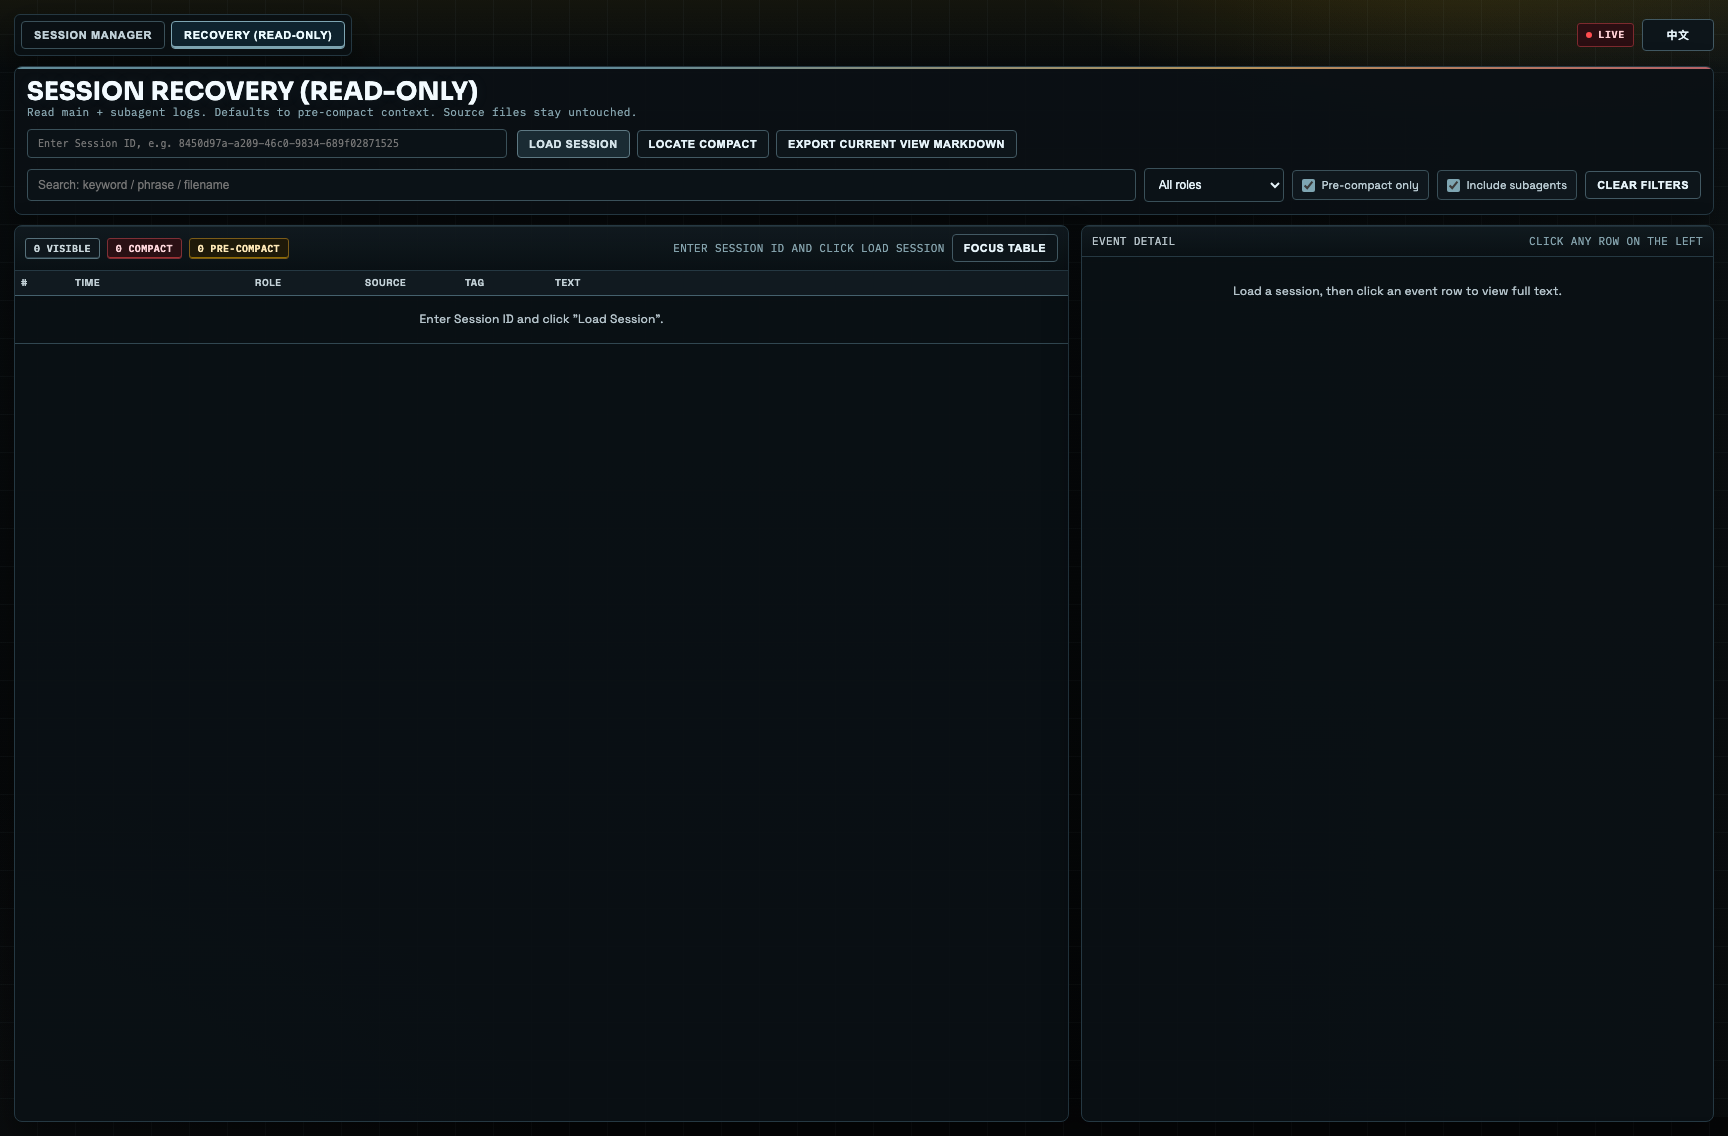
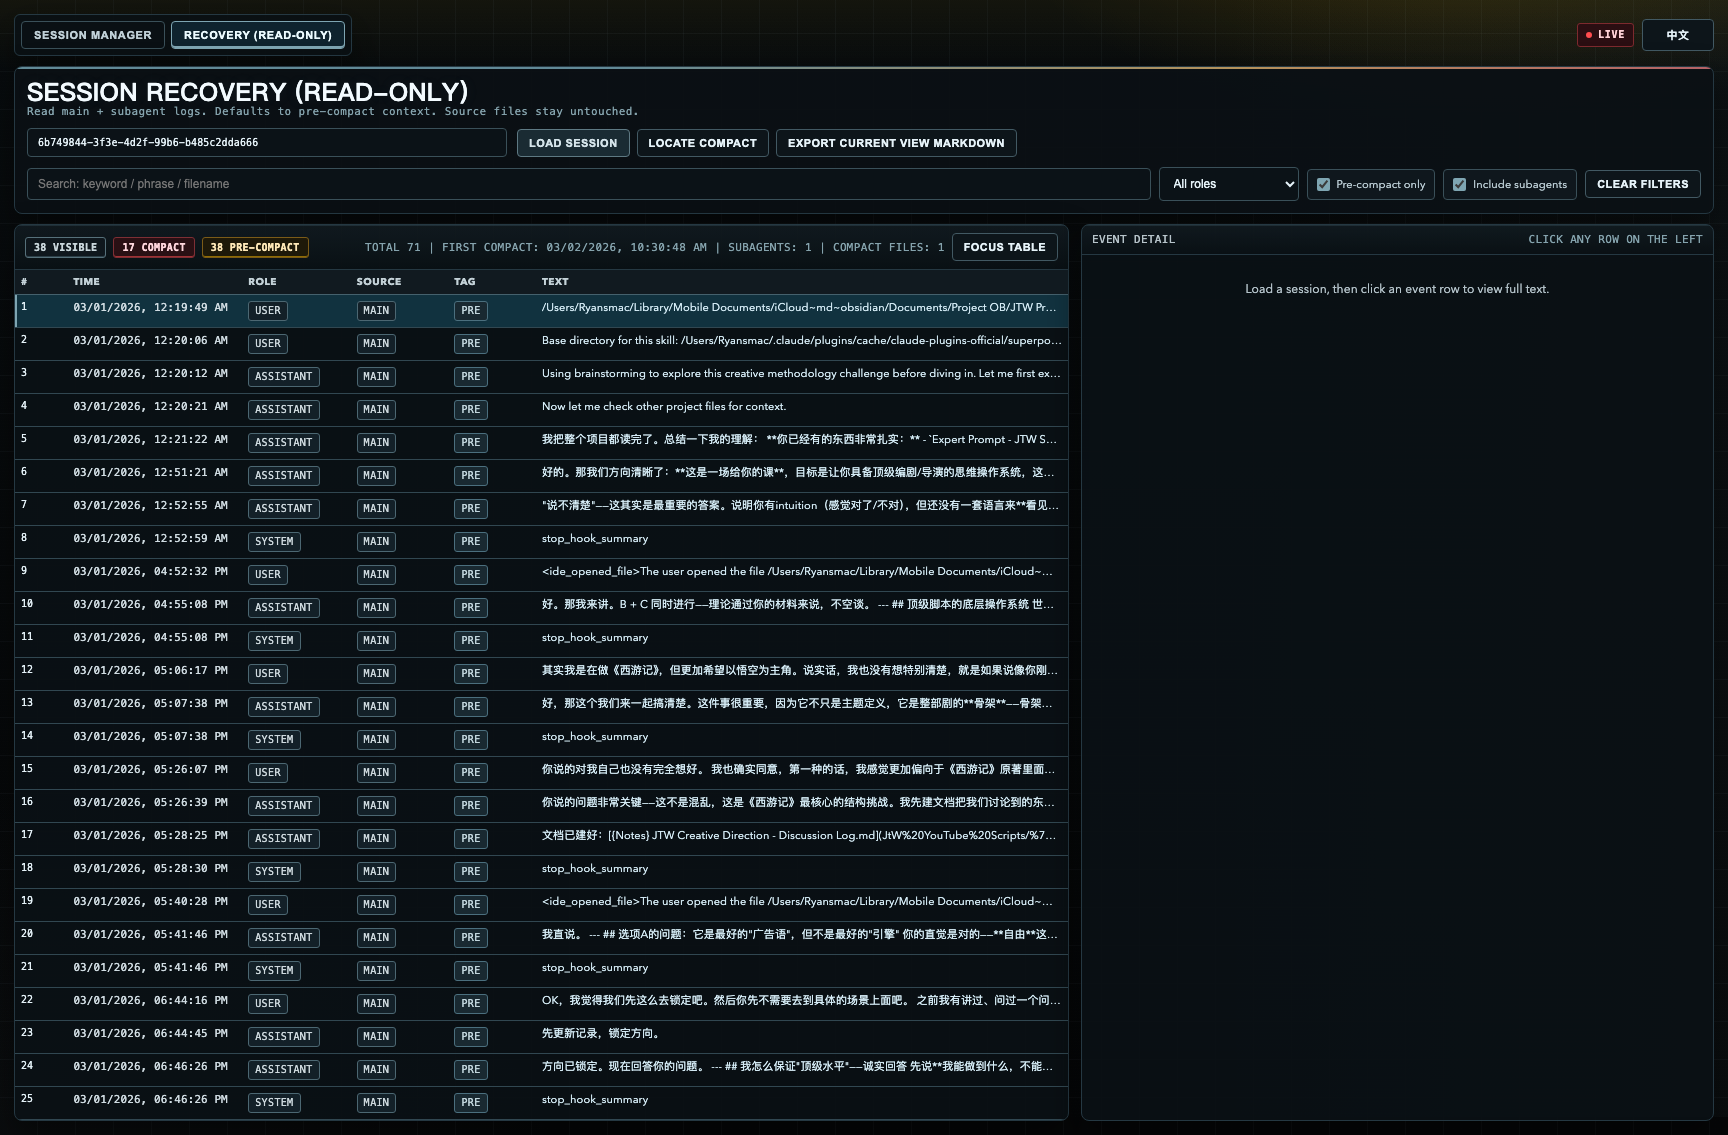
feat: improve launchers, add zh-cn README, and refresh demo screenshots

Changed region(s): [[0.0, 0.0617, 1.0, 0.9868], [0.7188, 0.2467, 0.9062, 0.2775]]

diff --git a/index.html b/index.html
@@ -1625,6 +1625,37 @@
       return candidate === 'recovery' ? 'recovery' : 'manager';
     }
 
+    function isDemoModeEnabled() {
+      const raw = String(new URLSearchParams(window.location.search).get('demo') || '').trim().toLowerCase();
+      return raw === '1' || raw === 'true' || raw === 'yes';
+    }
+
+    async function applyDemoStateIfNeeded() {
+      if (!isDemoModeEnabled()) return;
+
+      const m = state.manager;
+      const first = m.filtered[0] || m.sessions[0];
+      if (!first || !first.key) return;
+
+      m.selected.add(first.key);
+      await activateManagerSessionByKey(first.key);
+      renderManagerTable();
+
+      if (state.view !== 'recovery') return;
+      if (!m.activeDetail?.sessionId || !SESSION_ID_RE.test(m.activeDetail.sessionId)) return;
+
+      state.recovery.sessionId = m.activeDetail.sessionId;
+      els.recoverySessionId.value = m.activeDetail.sessionId;
+      await loadRecoverySession();
+
+      const firstEvent = state.recovery.filtered[0] || state.recovery.events[0];
+      if (firstEvent) {
+        state.recovery.activeId = firstEvent.id;
+        renderRecoveryTable();
+        renderRecoveryPreview(findRecoveryEventById(firstEvent.id));
+      }
+    }
+
     function renderRootPath() {
       const root = state.manager.rootPath || t('common.unknown');
       els.rootPath.textContent = t('manager.rootPath', { root });
@@ -2568,6 +2599,7 @@
 
       try {
         await reloadManagerAndRender();
+        await applyDemoStateIfNeeded();
       } catch (error) {
         els.sessionBody.innerHTML = `<tr><td colspan="9" class="empty">${esc(error.message)}</td></tr>`;
       }

diff --git a/README.zh-CN.md b/README.zh-CN.md
@@ -1,0 +1,119 @@
+# SessionDeck
+
+[English](./README.md) | 简体中文
+
+SessionDeck 是一个本地 Web 工具，用来管理 Claude Code 本地会话，强调可视化浏览 + 安全治理 + 不改源数据。
+
+## 功能
+
+### Session Manager（会话管理）
+
+- 列表展示：`project`、`summary`、`first prompt`、`last prompt`、`message count`、`modified time`
+- 关键词过滤与批量选择
+- 安全删除：移动到系统 Trash（不是硬删）
+
+### Recovery（只读恢复）
+
+- 按 `sessionId` 加载主会话 + subagents
+- 支持“只看压缩前”上下文
+- 支持定位 compact 点
+- 支持导出当前视图 Markdown
+
+### 进阶能力
+
+- 重建官方 `sessions-index.json`（不改 session 内容）
+- 跨 session 全文搜索（可包含 subagents）
+- 会话命名/标签（sidecar，不改原 session）
+- 批量导出选中会话为 Markdown
+
+### 界面
+
+- 默认英文，支持 EN/中文切换
+- War Room 风格主题
+
+## 数据安全边界
+
+- Recovery 为只读。
+- 命名与标签写入 sidecar 元数据，不改源会话文件。
+- 只有删除操作会触碰会话文件，且走系统 Trash。
+
+## 架构
+
+- 前端：单页 `index.html`
+- 后端：Node.js `server.mjs`
+- 启动脚本：
+- macOS：`Session Deck.command`、`Stop Session Deck.command`
+- Windows：`Session Deck.bat`、`Stop Session Deck.bat`
+- 跨平台终端：`run.sh`
+
+## 环境要求
+
+- Node.js 18+
+- Claude Code 会话目录（默认 `~/.claude/projects`）
+
+## 快速启动
+
+### 方式 A：双击（macOS）
+
+- `Session Deck.command`：启动并自动打开浏览器
+- `Stop Session Deck.command`：停止服务
+
+### 方式 B：双击（Windows）
+
+- `Session Deck.bat`：启动并自动打开浏览器
+- `Stop Session Deck.bat`：停止服务
+
+### 方式 C：终端
+
+```bash
+cd "/path/to/SessionDeck"
+./run.sh
+```
+
+默认地址：<http://127.0.0.1:47831>
+
+## Spotlight 启动（macOS）
+
+安装可被 Spotlight 搜索到的启动器：
+
+```bash
+./scripts/install-macos-launcher.sh
+```
+
+脚本会创建：`~/Applications/Session Deck.app`
+
+## 截图
+
+### Session Manager
+
+![Session Manager](docs/images/session-manager.png)
+
+### Recovery（只读）
+
+![Recovery View](docs/images/recovery-view.png)
+
+## 配置
+
+- `PORT`（默认 `47831`）
+- `CLAUDE_PROJECTS`（默认 `~/.claude/projects`）
+
+```bash
+PORT=47840 CLAUDE_PROJECTS="$HOME/.claude/projects" ./run.sh
+```
+
+## 项目状态
+
+- 当前目标版本：`v0.1.0`
+- 发布记录见 [`CHANGELOG.md`](./CHANGELOG.md)
+
+## 贡献
+
+请先阅读 [`CONTRIBUTING.md`](./CONTRIBUTING.md)
+
+## 安全
+
+漏洞报告流程见 [`SECURITY.md`](./SECURITY.md)
+
+## 许可证
+
+MIT License，见 [`LICENSE`](./LICENSE)

diff --git a/CHANGELOG.md b/CHANGELOG.md
@@ -2,6 +2,20 @@
 
 All notable changes to this project will be documented in this file.
 
+## [Unreleased]
+
+### Added
+
+- Bilingual full README: `README.md` + `README.zh-CN.md`.
+- Cross-platform launcher scripts for Windows: `Session Deck.bat` and `Stop Session Deck.bat`.
+- macOS Spotlight launcher installer: `scripts/install-macos-launcher.sh`.
+
+### Changed
+
+- Renamed macOS launch scripts to `Session Deck.command` and `Stop Session Deck.command`.
+- Screenshot capture flow now supports `?demo=1` to auto-select a session and show richer preview states.
+- Refreshed screenshots with selected session + visible preview context.
+
 ## [0.1.0] - 2026-03-02
 
 ### Added

diff --git a/CONTRIBUTING.md b/CONTRIBUTING.md
@@ -31,8 +31,8 @@ Thanks for contributing.
 ```bash
 node --check server.mjs
 bash -n run.sh
-bash -n "Start Web Manager.command"
-bash -n "Stop Web Manager.command"
+bash -n "Session Deck.command"
+bash -n "Stop Session Deck.command"
 ```
 
 3. Update `CHANGELOG.md` for user-facing changes.
